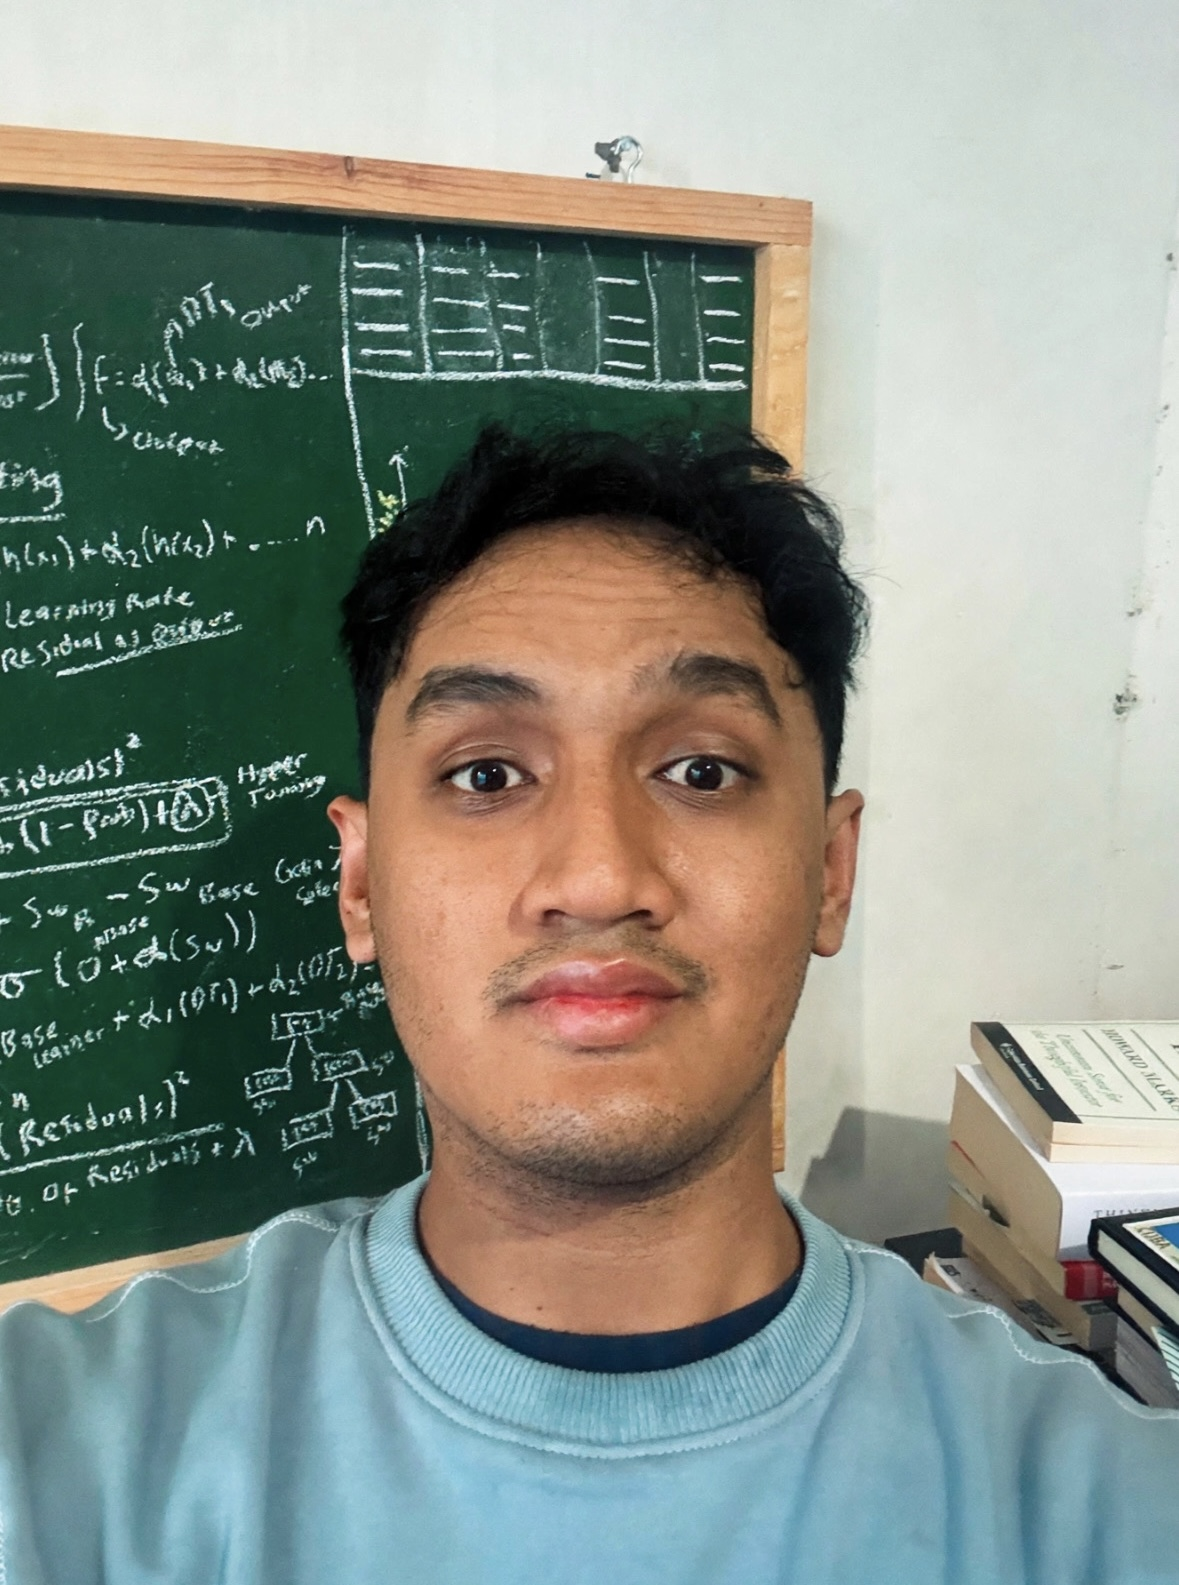
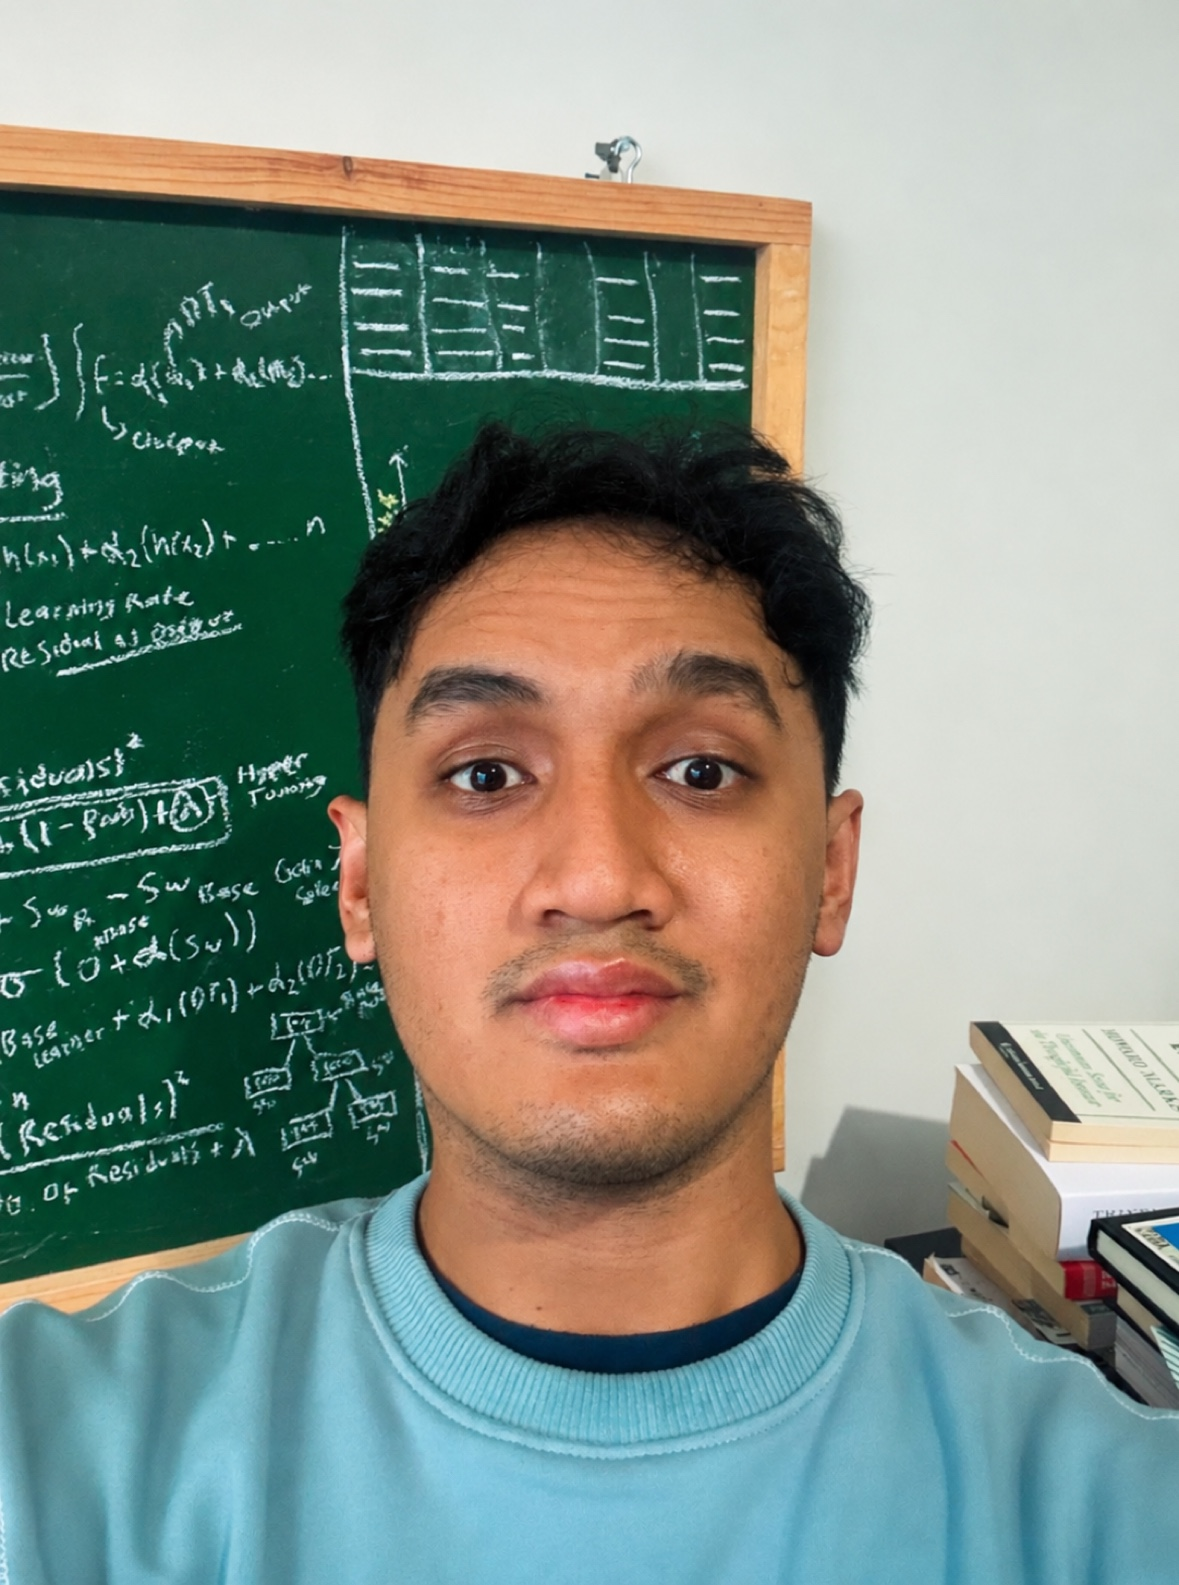
Clean wall marks in portfolio portrait

diff --git a/index.html b/index.html
@@ -18,7 +18,7 @@
 <section class="hero" id="home" aria-labelledby="hero-title">
 <div class="hero-inner wrap">
 <div class="hero-copy"><p class="hero-greeting">Hi, I'm</p><h1 id="hero-title">Rafiq Naufal<br>Kastara<span class="lime">.</span></h1><p class="hero-role" aria-label="Data Scientist, Data Analyst, Business Intelligence, Data Warehouse, AI Experimenter, Problem Solver"><span id="rotating-title" aria-hidden="true">Data Scientist</span><span class="cursor" aria-hidden="true">_</span></p></div>
-<div class="hero-photo"><img src="images/profile.jpg?v=20261015" alt="Rafiq Naufal Kastara in a light blue sweatshirt in front of a chalkboard" width="1179" height="1585" fetchpriority="high"></div>
+<div class="hero-photo"><img src="images/profile.jpg?v=20261112" alt="Rafiq Naufal Kastara in a light blue sweatshirt in front of a chalkboard" width="1179" height="1585" fetchpriority="high"></div>
 </div>
 <button id="motion-toggle" class="icon-button hero-motion" type="button" aria-label="Pause animations" aria-pressed="false" title="Pause animations" hidden=""><i class="fas fa-pause" aria-hidden="true"></i></button></section><nav id="main-nav" class="desktop-nav" aria-label="Sections"><div class="desktop-shortcuts wrap"><a href="#experience" class="desktop-shortcut shortcut-0"><span class="desktop-icon"><i class="fas fa-briefcase" aria-hidden="true"></i><span class="shortcut-mark" aria-hidden="true">↗</span></span><span class="shortcut-label">Experience</span></a><a href="#about" class="desktop-shortcut shortcut-1"><span class="desktop-icon"><i class="fas fa-address-card" aria-hidden="true"></i><span class="shortcut-mark" aria-hidden="true">↗</span></span><span class="shortcut-label">About me</span></a><a href="#skills" class="desktop-shortcut shortcut-2"><span class="desktop-icon"><i class="fas fa-desktop" aria-hidden="true"></i><span class="shortcut-mark" aria-hidden="true">↗</span></span><span class="shortcut-label">Toolkit</span></a><a href="#projects" class="desktop-shortcut shortcut-3"><span class="desktop-icon"><i class="fas fa-folder-open" aria-hidden="true"></i><span class="shortcut-mark" aria-hidden="true">↗</span></span><span class="shortcut-label">Projects</span></a><a href="#learning" class="desktop-shortcut shortcut-4"><span class="desktop-icon"><i class="fas fa-certificate" aria-hidden="true"></i><span class="shortcut-mark" aria-hidden="true">↗</span></span><span class="shortcut-label">Certificates</span></a><a href="#contact" class="desktop-shortcut shortcut-5"><span class="desktop-icon"><i class="fas fa-envelope" aria-hidden="true"></i><span class="shortcut-mark" aria-hidden="true">↗</span></span><span class="shortcut-label">Contact</span></a></div></nav>
 <section class="experience section-band" id="experience" aria-labelledby="experience-title"><div class="wrap">
